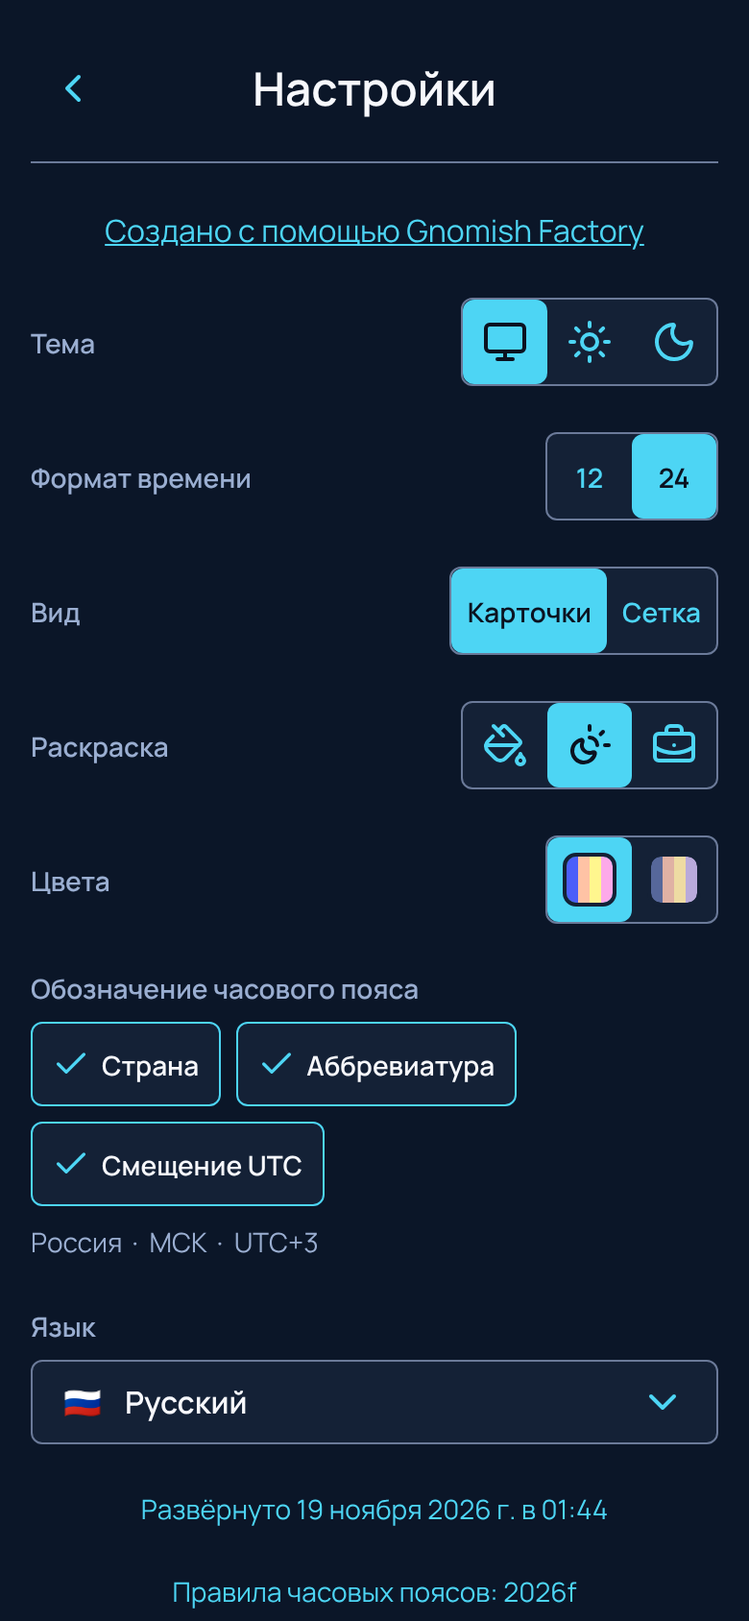
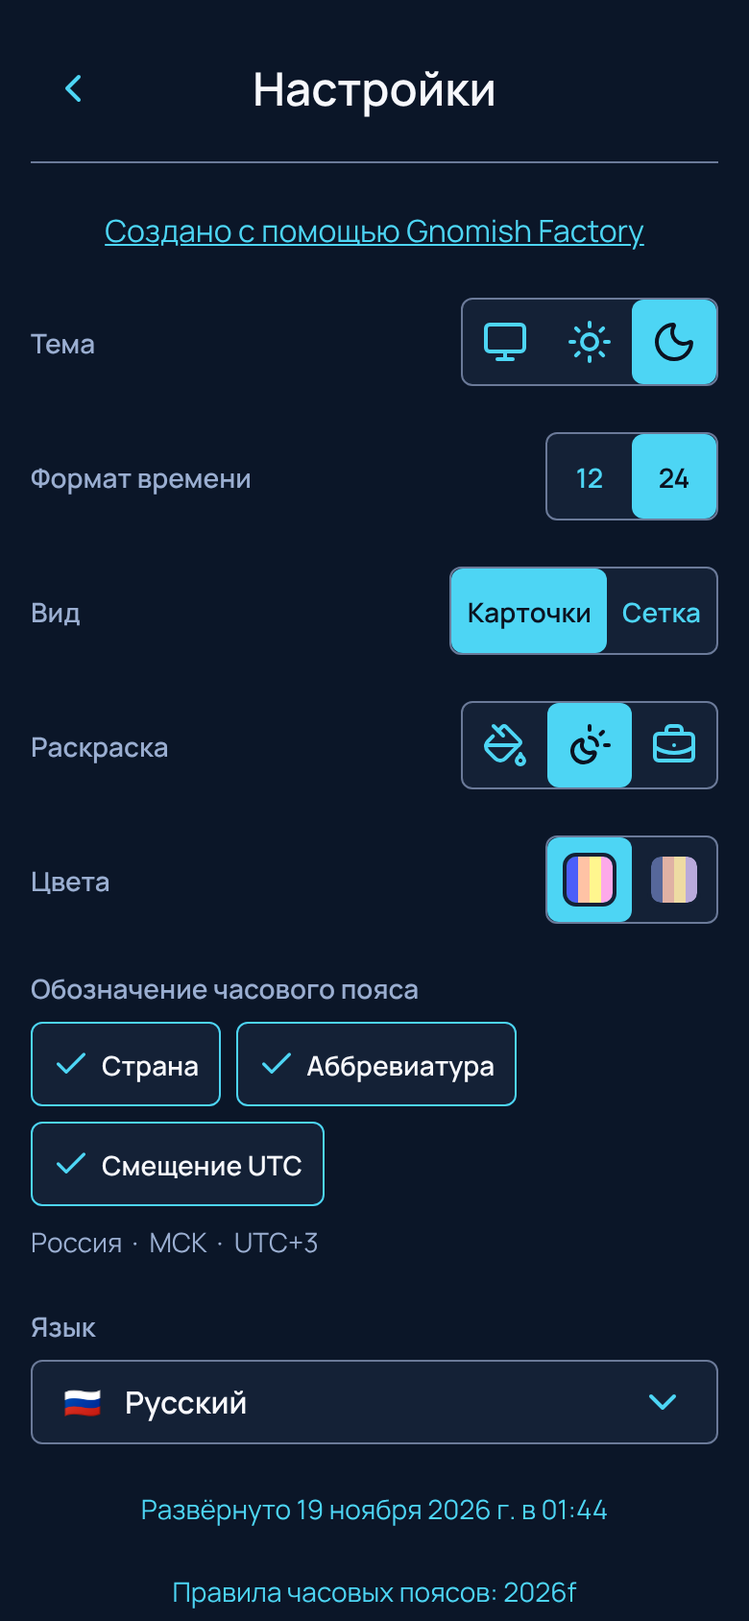
Show the matching theme option on the settings screens
The light screens have Light checked and the dark screen has Dark checked,
so a screen never shows System with a look that depends on the device.

Claude-Session: https://claude.ai/code/session_011ngRZ2UZXx84NbfXkhxPVm

Changed region(s): [[0.8308, 0.1848, 0.9538, 0.2464], [0.6154, 0.1848, 0.7385, 0.2464]]

diff --git a/docs/design/redesign/screens/settings-phone-light.html b/docs/design/redesign/screens/settings-phone-light.html
@@ -167,7 +167,7 @@ svg.icon { display: block; flex-shrink: 0; }
 </head>
 <body>
 <div id="screen" class="narrow" data-theme="light" data-day-palette="vivid">
-<header class="settings-header"><span class="icon-button" style="color: var(--color-accent)" aria-label="Назад"><svg class="icon " data-lucide="chevron-left" width="24" height="24" viewBox="0 0 24 24" fill="none" stroke="currentColor" stroke-width="2" stroke-linecap="round" stroke-linejoin="round" aria-hidden="true"><path d="m15 18-6-6 6-6"/></svg></span><h1 class="settings-title">Настройки</h1><span style="min-width: 44px"></span></header><main class="settings"><span class="credit">Создано с помощью Gnomish Factory</span><div class="settings-row"><span class="settings-caption">Тема</span><div class="segmented"><span class="option checked" title="Системная"><svg class="icon" data-lucide="monitor" width="24" height="24" viewBox="0 0 24 24" fill="none" stroke="currentColor" stroke-width="2" stroke-linecap="round" stroke-linejoin="round" aria-hidden="true"><rect width="20" height="14" x="2" y="3" rx="2"/><line x1="8" x2="16" y1="21" y2="21"/><line x1="12" x2="12" y1="17" y2="21"/></svg></span><span class="option" title="Светлая"><svg class="icon" data-lucide="sun" width="24" height="24" viewBox="0 0 24 24" fill="none" stroke="currentColor" stroke-width="2" stroke-linecap="round" stroke-linejoin="round" aria-hidden="true"><circle cx="12" cy="12" r="4"/><path d="M12 2v2"/><path d="M12 20v2"/><path d="m4.93 4.93 1.41 1.41"/><path d="m17.66 17.66 1.41 1.41"/><path d="M2 12h2"/><path d="M20 12h2"/><path d="m6.34 17.66-1.41 1.41"/><path d="m19.07 4.93-1.41 1.41"/></svg></span><span class="option" title="Тёмная"><svg class="icon" data-lucide="moon" width="24" height="24" viewBox="0 0 24 24" fill="none" stroke="currentColor" stroke-width="2" stroke-linecap="round" stroke-linejoin="round" aria-hidden="true"><path d="M20.985 12.486a9 9 0 1 1-9.473-9.472c.405-.022.617.46.402.803a6 6 0 0 0 8.268 8.268c.344-.215.825-.004.803.401"/></svg></span></div></div><div class="settings-row"><span class="settings-caption">Формат времени</span><div class="segmented"><span class="option" title="12 часов">12</span><span class="option checked" title="24 часа">24</span></div></div><div class="settings-row"><span class="settings-caption">Вид</span><div class="segmented"><span class="option checked" title="Карточки">Карточки</span><span class="option" title="Сетка">Сетка</span></div></div><div class="settings-row"><span class="settings-caption">Раскраска</span><div class="segmented"><span class="option" title="Обычная"><svg class="icon" data-lucide="paint-bucket" width="24" height="24" viewBox="0 0 24 24" fill="none" stroke="currentColor" stroke-width="2" stroke-linecap="round" stroke-linejoin="round" aria-hidden="true"><path d="M11 7 6 2"/><path d="M18.992 12H2.041"/><path d="M21.145 18.38A3.34 3.34 0 0 1 20 16.5a3.3 3.3 0 0 1-1.145 1.88c-.575.46-.855 1.02-.855 1.595A2 2 0 0 0 20 22a2 2 0 0 0 2-2.025c0-.58-.285-1.13-.855-1.595"/><path d="m8.5 4.5 2.148-2.148a1.205 1.205 0 0 1 1.704 0l7.296 7.296a1.205 1.205 0 0 1 0 1.704l-7.592 7.592a3.615 3.615 0 0 1-5.112 0l-3.888-3.888a3.615 3.615 0 0 1 0-5.112L5.67 7.33"/></svg></span><span class="option checked" title="По времени суток"><svg class="icon" data-lucide="sun-moon" width="24" height="24" viewBox="0 0 24 24" fill="none" stroke="currentColor" stroke-width="2" stroke-linecap="round" stroke-linejoin="round" aria-hidden="true"><path d="M12 2v2"/><path d="M14.837 16.385a6 6 0 1 1-7.223-7.222c.624-.147.97.66.715 1.248a4 4 0 0 0 5.26 5.259c.589-.255 1.396.09 1.248.715"/><path d="M16 12a4 4 0 0 0-4-4"/><path d="m19 5-1.256 1.256"/><path d="M20 12h2"/></svg></span><span class="option" title="По рабочему времени"><svg class="icon" data-lucide="briefcase-business" width="24" height="24" viewBox="0 0 24 24" fill="none" stroke="currentColor" stroke-width="2" stroke-linecap="round" stroke-linejoin="round" aria-hidden="true"><path d="M12 12h.01"/><path d="M16 6V4a2 2 0 0 0-2-2h-4a2 2 0 0 0-2 2v2"/><path d="M22 13a18.15 18.15 0 0 1-20 0"/><rect width="20" height="14" x="2" y="6" rx="2"/></svg></span></div></div><div class="settings-row"><span class="settings-caption">Цвета</span><div class="segmented"><span class="option checked" title="Яркие"><span class="palette-swatch" data-day-palette="vivid"><span style="background: #a4afd4"></span><span style="background: #f0c6b8"></span><span style="background: #f8e5a0"></span><span style="background: #e8c7df"></span></span></span><span class="option" title="Приглушённые"><span class="palette-swatch" data-day-palette="muted"><span style="background: #a3afd3"></span><span style="background: #f8cbbe"></span><span style="background: #f8e6a6"></span><span style="background: #d4c6ee"></span></span></span></div></div><div class="settings-block"><span class="settings-caption">Обозначение часового пояса</span><div class="toggles"><span class="toggle"><svg class="icon" data-lucide="check" width="20" height="20" viewBox="0 0 24 24" fill="none" stroke="currentColor" stroke-width="2" stroke-linecap="round" stroke-linejoin="round" aria-hidden="true"><path d="M20 6 9 17l-5-5"/></svg>Страна</span><span class="toggle"><svg class="icon" data-lucide="check" width="20" height="20" viewBox="0 0 24 24" fill="none" stroke="currentColor" stroke-width="2" stroke-linecap="round" stroke-linejoin="round" aria-hidden="true"><path d="M20 6 9 17l-5-5"/></svg>Аббревиатура</span><span class="toggle"><svg class="icon" data-lucide="check" width="20" height="20" viewBox="0 0 24 24" fill="none" stroke="currentColor" stroke-width="2" stroke-linecap="round" stroke-linejoin="round" aria-hidden="true"><path d="M20 6 9 17l-5-5"/></svg>Смещение UTC</span></div><div class="zone-example"><span class="zone-line" data-zone-line><span class="zone-parts"><span class="zone-part">Россия</span><span class="zone-part">МСК</span><span class="zone-part">UTC+3</span></span></span></div></div><div class="settings-block"><span class="settings-caption">Язык</span><span class="language-button"><span>🇷🇺</span><span style="flex: 1; font-weight: 600">Русский</span><svg class="icon" data-lucide="chevron-down" width="24" height="24" viewBox="0 0 24 24" fill="none" stroke="currentColor" stroke-width="2" stroke-linecap="round" stroke-linejoin="round" aria-hidden="true"><path d="m6 9 6 6 6-6"/></svg></span></div><p class="footnote">Развёрнуто 19 ноября 2026 г. в 01:44</p><p class="footnote">Правила часовых поясов: 2026f</p></main>
+<header class="settings-header"><span class="icon-button" style="color: var(--color-accent)" aria-label="Назад"><svg class="icon " data-lucide="chevron-left" width="24" height="24" viewBox="0 0 24 24" fill="none" stroke="currentColor" stroke-width="2" stroke-linecap="round" stroke-linejoin="round" aria-hidden="true"><path d="m15 18-6-6 6-6"/></svg></span><h1 class="settings-title">Настройки</h1><span style="min-width: 44px"></span></header><main class="settings"><span class="credit">Создано с помощью Gnomish Factory</span><div class="settings-row"><span class="settings-caption">Тема</span><div class="segmented"><span class="option" title="Системная"><svg class="icon" data-lucide="monitor" width="24" height="24" viewBox="0 0 24 24" fill="none" stroke="currentColor" stroke-width="2" stroke-linecap="round" stroke-linejoin="round" aria-hidden="true"><rect width="20" height="14" x="2" y="3" rx="2"/><line x1="8" x2="16" y1="21" y2="21"/><line x1="12" x2="12" y1="17" y2="21"/></svg></span><span class="option checked" title="Светлая"><svg class="icon" data-lucide="sun" width="24" height="24" viewBox="0 0 24 24" fill="none" stroke="currentColor" stroke-width="2" stroke-linecap="round" stroke-linejoin="round" aria-hidden="true"><circle cx="12" cy="12" r="4"/><path d="M12 2v2"/><path d="M12 20v2"/><path d="m4.93 4.93 1.41 1.41"/><path d="m17.66 17.66 1.41 1.41"/><path d="M2 12h2"/><path d="M20 12h2"/><path d="m6.34 17.66-1.41 1.41"/><path d="m19.07 4.93-1.41 1.41"/></svg></span><span class="option" title="Тёмная"><svg class="icon" data-lucide="moon" width="24" height="24" viewBox="0 0 24 24" fill="none" stroke="currentColor" stroke-width="2" stroke-linecap="round" stroke-linejoin="round" aria-hidden="true"><path d="M20.985 12.486a9 9 0 1 1-9.473-9.472c.405-.022.617.46.402.803a6 6 0 0 0 8.268 8.268c.344-.215.825-.004.803.401"/></svg></span></div></div><div class="settings-row"><span class="settings-caption">Формат времени</span><div class="segmented"><span class="option" title="12 часов">12</span><span class="option checked" title="24 часа">24</span></div></div><div class="settings-row"><span class="settings-caption">Вид</span><div class="segmented"><span class="option checked" title="Карточки">Карточки</span><span class="option" title="Сетка">Сетка</span></div></div><div class="settings-row"><span class="settings-caption">Раскраска</span><div class="segmented"><span class="option" title="Обычная"><svg class="icon" data-lucide="paint-bucket" width="24" height="24" viewBox="0 0 24 24" fill="none" stroke="currentColor" stroke-width="2" stroke-linecap="round" stroke-linejoin="round" aria-hidden="true"><path d="M11 7 6 2"/><path d="M18.992 12H2.041"/><path d="M21.145 18.38A3.34 3.34 0 0 1 20 16.5a3.3 3.3 0 0 1-1.145 1.88c-.575.46-.855 1.02-.855 1.595A2 2 0 0 0 20 22a2 2 0 0 0 2-2.025c0-.58-.285-1.13-.855-1.595"/><path d="m8.5 4.5 2.148-2.148a1.205 1.205 0 0 1 1.704 0l7.296 7.296a1.205 1.205 0 0 1 0 1.704l-7.592 7.592a3.615 3.615 0 0 1-5.112 0l-3.888-3.888a3.615 3.615 0 0 1 0-5.112L5.67 7.33"/></svg></span><span class="option checked" title="По времени суток"><svg class="icon" data-lucide="sun-moon" width="24" height="24" viewBox="0 0 24 24" fill="none" stroke="currentColor" stroke-width="2" stroke-linecap="round" stroke-linejoin="round" aria-hidden="true"><path d="M12 2v2"/><path d="M14.837 16.385a6 6 0 1 1-7.223-7.222c.624-.147.97.66.715 1.248a4 4 0 0 0 5.26 5.259c.589-.255 1.396.09 1.248.715"/><path d="M16 12a4 4 0 0 0-4-4"/><path d="m19 5-1.256 1.256"/><path d="M20 12h2"/></svg></span><span class="option" title="По рабочему времени"><svg class="icon" data-lucide="briefcase-business" width="24" height="24" viewBox="0 0 24 24" fill="none" stroke="currentColor" stroke-width="2" stroke-linecap="round" stroke-linejoin="round" aria-hidden="true"><path d="M12 12h.01"/><path d="M16 6V4a2 2 0 0 0-2-2h-4a2 2 0 0 0-2 2v2"/><path d="M22 13a18.15 18.15 0 0 1-20 0"/><rect width="20" height="14" x="2" y="6" rx="2"/></svg></span></div></div><div class="settings-row"><span class="settings-caption">Цвета</span><div class="segmented"><span class="option checked" title="Яркие"><span class="palette-swatch" data-day-palette="vivid"><span style="background: #a4afd4"></span><span style="background: #f0c6b8"></span><span style="background: #f8e5a0"></span><span style="background: #e8c7df"></span></span></span><span class="option" title="Приглушённые"><span class="palette-swatch" data-day-palette="muted"><span style="background: #a3afd3"></span><span style="background: #f8cbbe"></span><span style="background: #f8e6a6"></span><span style="background: #d4c6ee"></span></span></span></div></div><div class="settings-block"><span class="settings-caption">Обозначение часового пояса</span><div class="toggles"><span class="toggle"><svg class="icon" data-lucide="check" width="20" height="20" viewBox="0 0 24 24" fill="none" stroke="currentColor" stroke-width="2" stroke-linecap="round" stroke-linejoin="round" aria-hidden="true"><path d="M20 6 9 17l-5-5"/></svg>Страна</span><span class="toggle"><svg class="icon" data-lucide="check" width="20" height="20" viewBox="0 0 24 24" fill="none" stroke="currentColor" stroke-width="2" stroke-linecap="round" stroke-linejoin="round" aria-hidden="true"><path d="M20 6 9 17l-5-5"/></svg>Аббревиатура</span><span class="toggle"><svg class="icon" data-lucide="check" width="20" height="20" viewBox="0 0 24 24" fill="none" stroke="currentColor" stroke-width="2" stroke-linecap="round" stroke-linejoin="round" aria-hidden="true"><path d="M20 6 9 17l-5-5"/></svg>Смещение UTC</span></div><div class="zone-example"><span class="zone-line" data-zone-line><span class="zone-parts"><span class="zone-part">Россия</span><span class="zone-part">МСК</span><span class="zone-part">UTC+3</span></span></span></div></div><div class="settings-block"><span class="settings-caption">Язык</span><span class="language-button"><span>🇷🇺</span><span style="flex: 1; font-weight: 600">Русский</span><svg class="icon" data-lucide="chevron-down" width="24" height="24" viewBox="0 0 24 24" fill="none" stroke="currentColor" stroke-width="2" stroke-linecap="round" stroke-linejoin="round" aria-hidden="true"><path d="m6 9 6 6 6-6"/></svg></span></div><p class="footnote">Развёрнуто 19 ноября 2026 г. в 01:44</p><p class="footnote">Правила часовых поясов: 2026f</p></main>
 </div>
 </body>
 </html>

diff --git a/docs/design/redesign/screens/settings-phone-dark.html b/docs/design/redesign/screens/settings-phone-dark.html
@@ -167,7 +167,7 @@ svg.icon { display: block; flex-shrink: 0; }
 </head>
 <body>
 <div id="screen" class="narrow" data-theme="dark" data-day-palette="vivid">
-<header class="settings-header"><span class="icon-button" style="color: var(--color-accent)" aria-label="Назад"><svg class="icon " data-lucide="chevron-left" width="24" height="24" viewBox="0 0 24 24" fill="none" stroke="currentColor" stroke-width="2" stroke-linecap="round" stroke-linejoin="round" aria-hidden="true"><path d="m15 18-6-6 6-6"/></svg></span><h1 class="settings-title">Настройки</h1><span style="min-width: 44px"></span></header><main class="settings"><span class="credit">Создано с помощью Gnomish Factory</span><div class="settings-row"><span class="settings-caption">Тема</span><div class="segmented"><span class="option checked" title="Системная"><svg class="icon" data-lucide="monitor" width="24" height="24" viewBox="0 0 24 24" fill="none" stroke="currentColor" stroke-width="2" stroke-linecap="round" stroke-linejoin="round" aria-hidden="true"><rect width="20" height="14" x="2" y="3" rx="2"/><line x1="8" x2="16" y1="21" y2="21"/><line x1="12" x2="12" y1="17" y2="21"/></svg></span><span class="option" title="Светлая"><svg class="icon" data-lucide="sun" width="24" height="24" viewBox="0 0 24 24" fill="none" stroke="currentColor" stroke-width="2" stroke-linecap="round" stroke-linejoin="round" aria-hidden="true"><circle cx="12" cy="12" r="4"/><path d="M12 2v2"/><path d="M12 20v2"/><path d="m4.93 4.93 1.41 1.41"/><path d="m17.66 17.66 1.41 1.41"/><path d="M2 12h2"/><path d="M20 12h2"/><path d="m6.34 17.66-1.41 1.41"/><path d="m19.07 4.93-1.41 1.41"/></svg></span><span class="option" title="Тёмная"><svg class="icon" data-lucide="moon" width="24" height="24" viewBox="0 0 24 24" fill="none" stroke="currentColor" stroke-width="2" stroke-linecap="round" stroke-linejoin="round" aria-hidden="true"><path d="M20.985 12.486a9 9 0 1 1-9.473-9.472c.405-.022.617.46.402.803a6 6 0 0 0 8.268 8.268c.344-.215.825-.004.803.401"/></svg></span></div></div><div class="settings-row"><span class="settings-caption">Формат времени</span><div class="segmented"><span class="option" title="12 часов">12</span><span class="option checked" title="24 часа">24</span></div></div><div class="settings-row"><span class="settings-caption">Вид</span><div class="segmented"><span class="option checked" title="Карточки">Карточки</span><span class="option" title="Сетка">Сетка</span></div></div><div class="settings-row"><span class="settings-caption">Раскраска</span><div class="segmented"><span class="option" title="Обычная"><svg class="icon" data-lucide="paint-bucket" width="24" height="24" viewBox="0 0 24 24" fill="none" stroke="currentColor" stroke-width="2" stroke-linecap="round" stroke-linejoin="round" aria-hidden="true"><path d="M11 7 6 2"/><path d="M18.992 12H2.041"/><path d="M21.145 18.38A3.34 3.34 0 0 1 20 16.5a3.3 3.3 0 0 1-1.145 1.88c-.575.46-.855 1.02-.855 1.595A2 2 0 0 0 20 22a2 2 0 0 0 2-2.025c0-.58-.285-1.13-.855-1.595"/><path d="m8.5 4.5 2.148-2.148a1.205 1.205 0 0 1 1.704 0l7.296 7.296a1.205 1.205 0 0 1 0 1.704l-7.592 7.592a3.615 3.615 0 0 1-5.112 0l-3.888-3.888a3.615 3.615 0 0 1 0-5.112L5.67 7.33"/></svg></span><span class="option checked" title="По времени суток"><svg class="icon" data-lucide="sun-moon" width="24" height="24" viewBox="0 0 24 24" fill="none" stroke="currentColor" stroke-width="2" stroke-linecap="round" stroke-linejoin="round" aria-hidden="true"><path d="M12 2v2"/><path d="M14.837 16.385a6 6 0 1 1-7.223-7.222c.624-.147.97.66.715 1.248a4 4 0 0 0 5.26 5.259c.589-.255 1.396.09 1.248.715"/><path d="M16 12a4 4 0 0 0-4-4"/><path d="m19 5-1.256 1.256"/><path d="M20 12h2"/></svg></span><span class="option" title="По рабочему времени"><svg class="icon" data-lucide="briefcase-business" width="24" height="24" viewBox="0 0 24 24" fill="none" stroke="currentColor" stroke-width="2" stroke-linecap="round" stroke-linejoin="round" aria-hidden="true"><path d="M12 12h.01"/><path d="M16 6V4a2 2 0 0 0-2-2h-4a2 2 0 0 0-2 2v2"/><path d="M22 13a18.15 18.15 0 0 1-20 0"/><rect width="20" height="14" x="2" y="6" rx="2"/></svg></span></div></div><div class="settings-row"><span class="settings-caption">Цвета</span><div class="segmented"><span class="option checked" title="Яркие"><span class="palette-swatch" data-day-palette="vivid"><span style="background: #4c5efa"></span><span style="background: #ffc3a5"></span><span style="background: #fff68e"></span><span style="background: #fda9e9"></span></span></span><span class="option" title="Приглушённые"><span class="palette-swatch" data-day-palette="muted"><span style="background: #56679a"></span><span style="background: #e0b1a4"></span><span style="background: #eedba3"></span><span style="background: #b9aadb"></span></span></span></div></div><div class="settings-block"><span class="settings-caption">Обозначение часового пояса</span><div class="toggles"><span class="toggle"><svg class="icon" data-lucide="check" width="20" height="20" viewBox="0 0 24 24" fill="none" stroke="currentColor" stroke-width="2" stroke-linecap="round" stroke-linejoin="round" aria-hidden="true"><path d="M20 6 9 17l-5-5"/></svg>Страна</span><span class="toggle"><svg class="icon" data-lucide="check" width="20" height="20" viewBox="0 0 24 24" fill="none" stroke="currentColor" stroke-width="2" stroke-linecap="round" stroke-linejoin="round" aria-hidden="true"><path d="M20 6 9 17l-5-5"/></svg>Аббревиатура</span><span class="toggle"><svg class="icon" data-lucide="check" width="20" height="20" viewBox="0 0 24 24" fill="none" stroke="currentColor" stroke-width="2" stroke-linecap="round" stroke-linejoin="round" aria-hidden="true"><path d="M20 6 9 17l-5-5"/></svg>Смещение UTC</span></div><div class="zone-example"><span class="zone-line" data-zone-line><span class="zone-parts"><span class="zone-part">Россия</span><span class="zone-part">МСК</span><span class="zone-part">UTC+3</span></span></span></div></div><div class="settings-block"><span class="settings-caption">Язык</span><span class="language-button"><span>🇷🇺</span><span style="flex: 1; font-weight: 600">Русский</span><svg class="icon" data-lucide="chevron-down" width="24" height="24" viewBox="0 0 24 24" fill="none" stroke="currentColor" stroke-width="2" stroke-linecap="round" stroke-linejoin="round" aria-hidden="true"><path d="m6 9 6 6 6-6"/></svg></span></div><p class="footnote">Развёрнуто 19 ноября 2026 г. в 01:44</p><p class="footnote">Правила часовых поясов: 2026f</p></main>
+<header class="settings-header"><span class="icon-button" style="color: var(--color-accent)" aria-label="Назад"><svg class="icon " data-lucide="chevron-left" width="24" height="24" viewBox="0 0 24 24" fill="none" stroke="currentColor" stroke-width="2" stroke-linecap="round" stroke-linejoin="round" aria-hidden="true"><path d="m15 18-6-6 6-6"/></svg></span><h1 class="settings-title">Настройки</h1><span style="min-width: 44px"></span></header><main class="settings"><span class="credit">Создано с помощью Gnomish Factory</span><div class="settings-row"><span class="settings-caption">Тема</span><div class="segmented"><span class="option" title="Системная"><svg class="icon" data-lucide="monitor" width="24" height="24" viewBox="0 0 24 24" fill="none" stroke="currentColor" stroke-width="2" stroke-linecap="round" stroke-linejoin="round" aria-hidden="true"><rect width="20" height="14" x="2" y="3" rx="2"/><line x1="8" x2="16" y1="21" y2="21"/><line x1="12" x2="12" y1="17" y2="21"/></svg></span><span class="option" title="Светлая"><svg class="icon" data-lucide="sun" width="24" height="24" viewBox="0 0 24 24" fill="none" stroke="currentColor" stroke-width="2" stroke-linecap="round" stroke-linejoin="round" aria-hidden="true"><circle cx="12" cy="12" r="4"/><path d="M12 2v2"/><path d="M12 20v2"/><path d="m4.93 4.93 1.41 1.41"/><path d="m17.66 17.66 1.41 1.41"/><path d="M2 12h2"/><path d="M20 12h2"/><path d="m6.34 17.66-1.41 1.41"/><path d="m19.07 4.93-1.41 1.41"/></svg></span><span class="option checked" title="Тёмная"><svg class="icon" data-lucide="moon" width="24" height="24" viewBox="0 0 24 24" fill="none" stroke="currentColor" stroke-width="2" stroke-linecap="round" stroke-linejoin="round" aria-hidden="true"><path d="M20.985 12.486a9 9 0 1 1-9.473-9.472c.405-.022.617.46.402.803a6 6 0 0 0 8.268 8.268c.344-.215.825-.004.803.401"/></svg></span></div></div><div class="settings-row"><span class="settings-caption">Формат времени</span><div class="segmented"><span class="option" title="12 часов">12</span><span class="option checked" title="24 часа">24</span></div></div><div class="settings-row"><span class="settings-caption">Вид</span><div class="segmented"><span class="option checked" title="Карточки">Карточки</span><span class="option" title="Сетка">Сетка</span></div></div><div class="settings-row"><span class="settings-caption">Раскраска</span><div class="segmented"><span class="option" title="Обычная"><svg class="icon" data-lucide="paint-bucket" width="24" height="24" viewBox="0 0 24 24" fill="none" stroke="currentColor" stroke-width="2" stroke-linecap="round" stroke-linejoin="round" aria-hidden="true"><path d="M11 7 6 2"/><path d="M18.992 12H2.041"/><path d="M21.145 18.38A3.34 3.34 0 0 1 20 16.5a3.3 3.3 0 0 1-1.145 1.88c-.575.46-.855 1.02-.855 1.595A2 2 0 0 0 20 22a2 2 0 0 0 2-2.025c0-.58-.285-1.13-.855-1.595"/><path d="m8.5 4.5 2.148-2.148a1.205 1.205 0 0 1 1.704 0l7.296 7.296a1.205 1.205 0 0 1 0 1.704l-7.592 7.592a3.615 3.615 0 0 1-5.112 0l-3.888-3.888a3.615 3.615 0 0 1 0-5.112L5.67 7.33"/></svg></span><span class="option checked" title="По времени суток"><svg class="icon" data-lucide="sun-moon" width="24" height="24" viewBox="0 0 24 24" fill="none" stroke="currentColor" stroke-width="2" stroke-linecap="round" stroke-linejoin="round" aria-hidden="true"><path d="M12 2v2"/><path d="M14.837 16.385a6 6 0 1 1-7.223-7.222c.624-.147.97.66.715 1.248a4 4 0 0 0 5.26 5.259c.589-.255 1.396.09 1.248.715"/><path d="M16 12a4 4 0 0 0-4-4"/><path d="m19 5-1.256 1.256"/><path d="M20 12h2"/></svg></span><span class="option" title="По рабочему времени"><svg class="icon" data-lucide="briefcase-business" width="24" height="24" viewBox="0 0 24 24" fill="none" stroke="currentColor" stroke-width="2" stroke-linecap="round" stroke-linejoin="round" aria-hidden="true"><path d="M12 12h.01"/><path d="M16 6V4a2 2 0 0 0-2-2h-4a2 2 0 0 0-2 2v2"/><path d="M22 13a18.15 18.15 0 0 1-20 0"/><rect width="20" height="14" x="2" y="6" rx="2"/></svg></span></div></div><div class="settings-row"><span class="settings-caption">Цвета</span><div class="segmented"><span class="option checked" title="Яркие"><span class="palette-swatch" data-day-palette="vivid"><span style="background: #4c5efa"></span><span style="background: #ffc3a5"></span><span style="background: #fff68e"></span><span style="background: #fda9e9"></span></span></span><span class="option" title="Приглушённые"><span class="palette-swatch" data-day-palette="muted"><span style="background: #56679a"></span><span style="background: #e0b1a4"></span><span style="background: #eedba3"></span><span style="background: #b9aadb"></span></span></span></div></div><div class="settings-block"><span class="settings-caption">Обозначение часового пояса</span><div class="toggles"><span class="toggle"><svg class="icon" data-lucide="check" width="20" height="20" viewBox="0 0 24 24" fill="none" stroke="currentColor" stroke-width="2" stroke-linecap="round" stroke-linejoin="round" aria-hidden="true"><path d="M20 6 9 17l-5-5"/></svg>Страна</span><span class="toggle"><svg class="icon" data-lucide="check" width="20" height="20" viewBox="0 0 24 24" fill="none" stroke="currentColor" stroke-width="2" stroke-linecap="round" stroke-linejoin="round" aria-hidden="true"><path d="M20 6 9 17l-5-5"/></svg>Аббревиатура</span><span class="toggle"><svg class="icon" data-lucide="check" width="20" height="20" viewBox="0 0 24 24" fill="none" stroke="currentColor" stroke-width="2" stroke-linecap="round" stroke-linejoin="round" aria-hidden="true"><path d="M20 6 9 17l-5-5"/></svg>Смещение UTC</span></div><div class="zone-example"><span class="zone-line" data-zone-line><span class="zone-parts"><span class="zone-part">Россия</span><span class="zone-part">МСК</span><span class="zone-part">UTC+3</span></span></span></div></div><div class="settings-block"><span class="settings-caption">Язык</span><span class="language-button"><span>🇷🇺</span><span style="flex: 1; font-weight: 600">Русский</span><svg class="icon" data-lucide="chevron-down" width="24" height="24" viewBox="0 0 24 24" fill="none" stroke="currentColor" stroke-width="2" stroke-linecap="round" stroke-linejoin="round" aria-hidden="true"><path d="m6 9 6 6 6-6"/></svg></span></div><p class="footnote">Развёрнуто 19 ноября 2026 г. в 01:44</p><p class="footnote">Правила часовых поясов: 2026f</p></main>
 </div>
 </body>
 </html>

diff --git a/docs/design/redesign/screens/settings-phone-working-hours-light.html b/docs/design/redesign/screens/settings-phone-working-hours-light.html
@@ -167,7 +167,7 @@ svg.icon { display: block; flex-shrink: 0; }
 </head>
 <body>
 <div id="screen" class="narrow" data-theme="light" data-day-palette="vivid">
-<header class="settings-header"><span class="icon-button" style="color: var(--color-accent)" aria-label="Назад"><svg class="icon " data-lucide="chevron-left" width="24" height="24" viewBox="0 0 24 24" fill="none" stroke="currentColor" stroke-width="2" stroke-linecap="round" stroke-linejoin="round" aria-hidden="true"><path d="m15 18-6-6 6-6"/></svg></span><h1 class="settings-title">Настройки</h1><span style="min-width: 44px"></span></header><main class="settings"><span class="credit">Создано с помощью Gnomish Factory</span><div class="settings-row"><span class="settings-caption">Тема</span><div class="segmented"><span class="option checked" title="Системная"><svg class="icon" data-lucide="monitor" width="24" height="24" viewBox="0 0 24 24" fill="none" stroke="currentColor" stroke-width="2" stroke-linecap="round" stroke-linejoin="round" aria-hidden="true"><rect width="20" height="14" x="2" y="3" rx="2"/><line x1="8" x2="16" y1="21" y2="21"/><line x1="12" x2="12" y1="17" y2="21"/></svg></span><span class="option" title="Светлая"><svg class="icon" data-lucide="sun" width="24" height="24" viewBox="0 0 24 24" fill="none" stroke="currentColor" stroke-width="2" stroke-linecap="round" stroke-linejoin="round" aria-hidden="true"><circle cx="12" cy="12" r="4"/><path d="M12 2v2"/><path d="M12 20v2"/><path d="m4.93 4.93 1.41 1.41"/><path d="m17.66 17.66 1.41 1.41"/><path d="M2 12h2"/><path d="M20 12h2"/><path d="m6.34 17.66-1.41 1.41"/><path d="m19.07 4.93-1.41 1.41"/></svg></span><span class="option" title="Тёмная"><svg class="icon" data-lucide="moon" width="24" height="24" viewBox="0 0 24 24" fill="none" stroke="currentColor" stroke-width="2" stroke-linecap="round" stroke-linejoin="round" aria-hidden="true"><path d="M20.985 12.486a9 9 0 1 1-9.473-9.472c.405-.022.617.46.402.803a6 6 0 0 0 8.268 8.268c.344-.215.825-.004.803.401"/></svg></span></div></div><div class="settings-row"><span class="settings-caption">Формат времени</span><div class="segmented"><span class="option" title="12 часов">12</span><span class="option checked" title="24 часа">24</span></div></div><div class="settings-row"><span class="settings-caption">Вид</span><div class="segmented"><span class="option checked" title="Карточки">Карточки</span><span class="option" title="Сетка">Сетка</span></div></div><div class="settings-row"><span class="settings-caption">Раскраска</span><div class="segmented"><span class="option" title="Обычная"><svg class="icon" data-lucide="paint-bucket" width="24" height="24" viewBox="0 0 24 24" fill="none" stroke="currentColor" stroke-width="2" stroke-linecap="round" stroke-linejoin="round" aria-hidden="true"><path d="M11 7 6 2"/><path d="M18.992 12H2.041"/><path d="M21.145 18.38A3.34 3.34 0 0 1 20 16.5a3.3 3.3 0 0 1-1.145 1.88c-.575.46-.855 1.02-.855 1.595A2 2 0 0 0 20 22a2 2 0 0 0 2-2.025c0-.58-.285-1.13-.855-1.595"/><path d="m8.5 4.5 2.148-2.148a1.205 1.205 0 0 1 1.704 0l7.296 7.296a1.205 1.205 0 0 1 0 1.704l-7.592 7.592a3.615 3.615 0 0 1-5.112 0l-3.888-3.888a3.615 3.615 0 0 1 0-5.112L5.67 7.33"/></svg></span><span class="option" title="По времени суток"><svg class="icon" data-lucide="sun-moon" width="24" height="24" viewBox="0 0 24 24" fill="none" stroke="currentColor" stroke-width="2" stroke-linecap="round" stroke-linejoin="round" aria-hidden="true"><path d="M12 2v2"/><path d="M14.837 16.385a6 6 0 1 1-7.223-7.222c.624-.147.97.66.715 1.248a4 4 0 0 0 5.26 5.259c.589-.255 1.396.09 1.248.715"/><path d="M16 12a4 4 0 0 0-4-4"/><path d="m19 5-1.256 1.256"/><path d="M20 12h2"/></svg></span><span class="option checked" title="По рабочему времени"><svg class="icon" data-lucide="briefcase-business" width="24" height="24" viewBox="0 0 24 24" fill="none" stroke="currentColor" stroke-width="2" stroke-linecap="round" stroke-linejoin="round" aria-hidden="true"><path d="M12 12h.01"/><path d="M16 6V4a2 2 0 0 0-2-2h-4a2 2 0 0 0-2 2v2"/><path d="M22 13a18.15 18.15 0 0 1-20 0"/><rect width="20" height="14" x="2" y="6" rx="2"/></svg></span></div></div><div class="settings-row"><span class="settings-caption">Рабочие часы</span><div class="time-range"><span class="time-field">10:00</span>–<span class="time-field">18:00</span></div></div><div class="settings-block"><span class="settings-caption">Обозначение часового пояса</span><div class="toggles"><span class="toggle"><svg class="icon" data-lucide="check" width="20" height="20" viewBox="0 0 24 24" fill="none" stroke="currentColor" stroke-width="2" stroke-linecap="round" stroke-linejoin="round" aria-hidden="true"><path d="M20 6 9 17l-5-5"/></svg>Страна</span><span class="toggle"><svg class="icon" data-lucide="check" width="20" height="20" viewBox="0 0 24 24" fill="none" stroke="currentColor" stroke-width="2" stroke-linecap="round" stroke-linejoin="round" aria-hidden="true"><path d="M20 6 9 17l-5-5"/></svg>Аббревиатура</span><span class="toggle"><svg class="icon" data-lucide="check" width="20" height="20" viewBox="0 0 24 24" fill="none" stroke="currentColor" stroke-width="2" stroke-linecap="round" stroke-linejoin="round" aria-hidden="true"><path d="M20 6 9 17l-5-5"/></svg>Смещение UTC</span></div><div class="zone-example"><span class="zone-line" data-zone-line><span class="zone-parts"><span class="zone-part">Россия</span><span class="zone-part">МСК</span><span class="zone-part">UTC+3</span></span></span></div></div><div class="settings-block"><span class="settings-caption">Язык</span><span class="language-button"><span>🇷🇺</span><span style="flex: 1; font-weight: 600">Русский</span><svg class="icon" data-lucide="chevron-down" width="24" height="24" viewBox="0 0 24 24" fill="none" stroke="currentColor" stroke-width="2" stroke-linecap="round" stroke-linejoin="round" aria-hidden="true"><path d="m6 9 6 6 6-6"/></svg></span></div><p class="footnote">Развёрнуто 19 ноября 2026 г. в 01:44</p><p class="footnote">Правила часовых поясов: 2026f</p></main>
+<header class="settings-header"><span class="icon-button" style="color: var(--color-accent)" aria-label="Назад"><svg class="icon " data-lucide="chevron-left" width="24" height="24" viewBox="0 0 24 24" fill="none" stroke="currentColor" stroke-width="2" stroke-linecap="round" stroke-linejoin="round" aria-hidden="true"><path d="m15 18-6-6 6-6"/></svg></span><h1 class="settings-title">Настройки</h1><span style="min-width: 44px"></span></header><main class="settings"><span class="credit">Создано с помощью Gnomish Factory</span><div class="settings-row"><span class="settings-caption">Тема</span><div class="segmented"><span class="option" title="Системная"><svg class="icon" data-lucide="monitor" width="24" height="24" viewBox="0 0 24 24" fill="none" stroke="currentColor" stroke-width="2" stroke-linecap="round" stroke-linejoin="round" aria-hidden="true"><rect width="20" height="14" x="2" y="3" rx="2"/><line x1="8" x2="16" y1="21" y2="21"/><line x1="12" x2="12" y1="17" y2="21"/></svg></span><span class="option checked" title="Светлая"><svg class="icon" data-lucide="sun" width="24" height="24" viewBox="0 0 24 24" fill="none" stroke="currentColor" stroke-width="2" stroke-linecap="round" stroke-linejoin="round" aria-hidden="true"><circle cx="12" cy="12" r="4"/><path d="M12 2v2"/><path d="M12 20v2"/><path d="m4.93 4.93 1.41 1.41"/><path d="m17.66 17.66 1.41 1.41"/><path d="M2 12h2"/><path d="M20 12h2"/><path d="m6.34 17.66-1.41 1.41"/><path d="m19.07 4.93-1.41 1.41"/></svg></span><span class="option" title="Тёмная"><svg class="icon" data-lucide="moon" width="24" height="24" viewBox="0 0 24 24" fill="none" stroke="currentColor" stroke-width="2" stroke-linecap="round" stroke-linejoin="round" aria-hidden="true"><path d="M20.985 12.486a9 9 0 1 1-9.473-9.472c.405-.022.617.46.402.803a6 6 0 0 0 8.268 8.268c.344-.215.825-.004.803.401"/></svg></span></div></div><div class="settings-row"><span class="settings-caption">Формат времени</span><div class="segmented"><span class="option" title="12 часов">12</span><span class="option checked" title="24 часа">24</span></div></div><div class="settings-row"><span class="settings-caption">Вид</span><div class="segmented"><span class="option checked" title="Карточки">Карточки</span><span class="option" title="Сетка">Сетка</span></div></div><div class="settings-row"><span class="settings-caption">Раскраска</span><div class="segmented"><span class="option" title="Обычная"><svg class="icon" data-lucide="paint-bucket" width="24" height="24" viewBox="0 0 24 24" fill="none" stroke="currentColor" stroke-width="2" stroke-linecap="round" stroke-linejoin="round" aria-hidden="true"><path d="M11 7 6 2"/><path d="M18.992 12H2.041"/><path d="M21.145 18.38A3.34 3.34 0 0 1 20 16.5a3.3 3.3 0 0 1-1.145 1.88c-.575.46-.855 1.02-.855 1.595A2 2 0 0 0 20 22a2 2 0 0 0 2-2.025c0-.58-.285-1.13-.855-1.595"/><path d="m8.5 4.5 2.148-2.148a1.205 1.205 0 0 1 1.704 0l7.296 7.296a1.205 1.205 0 0 1 0 1.704l-7.592 7.592a3.615 3.615 0 0 1-5.112 0l-3.888-3.888a3.615 3.615 0 0 1 0-5.112L5.67 7.33"/></svg></span><span class="option" title="По времени суток"><svg class="icon" data-lucide="sun-moon" width="24" height="24" viewBox="0 0 24 24" fill="none" stroke="currentColor" stroke-width="2" stroke-linecap="round" stroke-linejoin="round" aria-hidden="true"><path d="M12 2v2"/><path d="M14.837 16.385a6 6 0 1 1-7.223-7.222c.624-.147.97.66.715 1.248a4 4 0 0 0 5.26 5.259c.589-.255 1.396.09 1.248.715"/><path d="M16 12a4 4 0 0 0-4-4"/><path d="m19 5-1.256 1.256"/><path d="M20 12h2"/></svg></span><span class="option checked" title="По рабочему времени"><svg class="icon" data-lucide="briefcase-business" width="24" height="24" viewBox="0 0 24 24" fill="none" stroke="currentColor" stroke-width="2" stroke-linecap="round" stroke-linejoin="round" aria-hidden="true"><path d="M12 12h.01"/><path d="M16 6V4a2 2 0 0 0-2-2h-4a2 2 0 0 0-2 2v2"/><path d="M22 13a18.15 18.15 0 0 1-20 0"/><rect width="20" height="14" x="2" y="6" rx="2"/></svg></span></div></div><div class="settings-row"><span class="settings-caption">Рабочие часы</span><div class="time-range"><span class="time-field">10:00</span>–<span class="time-field">18:00</span></div></div><div class="settings-block"><span class="settings-caption">Обозначение часового пояса</span><div class="toggles"><span class="toggle"><svg class="icon" data-lucide="check" width="20" height="20" viewBox="0 0 24 24" fill="none" stroke="currentColor" stroke-width="2" stroke-linecap="round" stroke-linejoin="round" aria-hidden="true"><path d="M20 6 9 17l-5-5"/></svg>Страна</span><span class="toggle"><svg class="icon" data-lucide="check" width="20" height="20" viewBox="0 0 24 24" fill="none" stroke="currentColor" stroke-width="2" stroke-linecap="round" stroke-linejoin="round" aria-hidden="true"><path d="M20 6 9 17l-5-5"/></svg>Аббревиатура</span><span class="toggle"><svg class="icon" data-lucide="check" width="20" height="20" viewBox="0 0 24 24" fill="none" stroke="currentColor" stroke-width="2" stroke-linecap="round" stroke-linejoin="round" aria-hidden="true"><path d="M20 6 9 17l-5-5"/></svg>Смещение UTC</span></div><div class="zone-example"><span class="zone-line" data-zone-line><span class="zone-parts"><span class="zone-part">Россия</span><span class="zone-part">МСК</span><span class="zone-part">UTC+3</span></span></span></div></div><div class="settings-block"><span class="settings-caption">Язык</span><span class="language-button"><span>🇷🇺</span><span style="flex: 1; font-weight: 600">Русский</span><svg class="icon" data-lucide="chevron-down" width="24" height="24" viewBox="0 0 24 24" fill="none" stroke="currentColor" stroke-width="2" stroke-linecap="round" stroke-linejoin="round" aria-hidden="true"><path d="m6 9 6 6 6-6"/></svg></span></div><p class="footnote">Развёрнуто 19 ноября 2026 г. в 01:44</p><p class="footnote">Правила часовых поясов: 2026f</p></main>
 </div>
 </body>
 </html>
